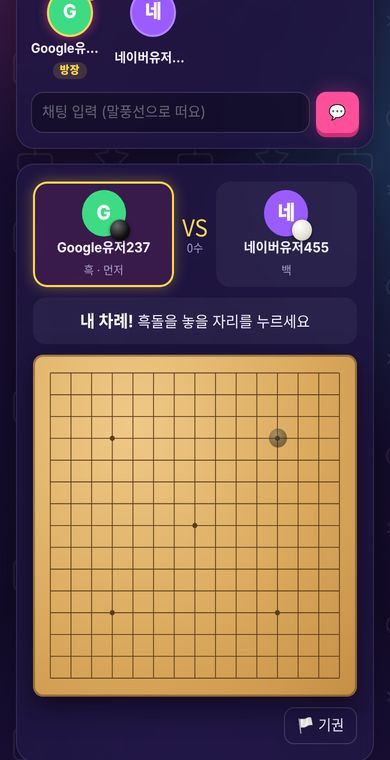
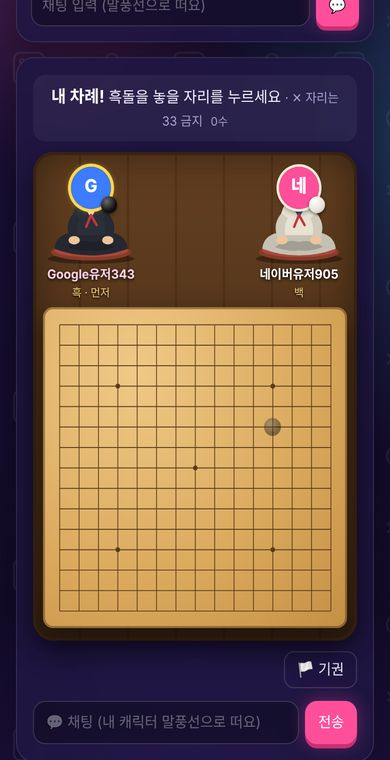
오목: 33 금지, 앉은 캐릭터·채팅, 잘못누르기 방지 삭제 / 장기: 상마 배치 고르기, 위아래 캐릭터·채팅
Claude-Session: https://claude.ai/code/session_018kcaK1YQGkv4UBC623yDa1

diff --git a/js/games/janggi.js b/js/games/janggi.js
@@ -2,7 +2,7 @@
 // 칸 번호: r*9 + c (r 0~9 위→아래, c 0~8). 한(漢·빨강)은 위, 초(楚·초록)는 아래에서 시작
 // 말: K 궁 · R 차 · C 포 · H 마 · E 상 · A 사 · P 졸/병, 앞에 진영 글자 c(초) / h(한)
 import { turnAlert, bigFlash } from './turn-alert.js';
-import { faceHtml } from './face.js';
+import { sitHtml, chatFormHtml, bindChat } from './sit.js';
 import { sfxToken } from '../sound.js';
 
 const W = 9, H = 10;
@@ -25,10 +25,15 @@ export const NAMES = { K: '궁', R: '차', C: '포', H: '마', E: '상', A: '사
 const HANJA = { c: { K: '楚', R: '車', C: '包', H: '馬', E: '象', A: '士', P: '卒' }, h: { K: '漢', R: '車', C: '包', H: '馬', E: '象', A: '士', P: '兵' } };
 const SCORE = { R: 13, C: 7, H: 5, E: 3, A: 3, P: 2, K: 0 };
 
-export function initialBoard() {
+// 상·마 배치: 내 쪽에서 봤을 때 왼쪽부터 (차 옆 두 칸, 사 옆 두 칸)
+export const FORMS = ['마상마상', '상마상마', '마상상마', '상마마상'];
+const FORM_NAME = { 마상마상: '왼상 차림', 상마상마: '오른상 차림', 마상상마: '안상 차림', 상마마상: '바깥상 차림' };
+const KIND = { 마: 'H', 상: 'E' };
+export function initialBoard(fc = '마상마상', fh = '마상마상') {
   const b = Array(W * H).fill('');
-  const back = ['R', 'H', 'E', 'A', '', 'A', 'E', 'H', 'R'];
-  back.forEach((p, c) => { if (p) { b[at(0, c)] = 'h' + p; b[at(9, c)] = 'c' + p; } });
+  ['R', '', '', 'A', '', 'A', '', '', 'R'].forEach((p, c) => { if (p) { b[at(0, c)] = 'h' + p; b[at(9, c)] = 'c' + p; } });
+  // 초는 아래에서 보니 왼쪽 = 0열, 한은 위에서 보니 왼쪽 = 8열
+  [1, 2, 6, 7].forEach((c, k) => { b[at(9, c)] = 'c' + KIND[fc[k]]; b[at(0, 8 - c)] = 'h' + KIND[fh[k]]; });
   b[at(1, 4)] = 'hK'; b[at(8, 4)] = 'cK';
   [1, 7].forEach((c) => { b[at(2, c)] = 'hC'; b[at(7, c)] = 'cC'; });
   [0, 2, 4, 6, 8].forEach((c) => { b[at(3, c)] = 'hP'; b[at(6, c)] = 'cP'; });
@@ -150,19 +155,27 @@ export default {
     '졸·병: 앞이나 옆으로 한 칸 (뒤로는 못 가요). 궁성 안에서는 선을 따라 대각선으로도 갈 수 있어요.',
     '상대 궁을 공격하면 "장군!" 내 궁이 공격받으면 반드시 피해야 해요. 피할 수 없으면 외통으로 패배!',
     '둘 곳이 마땅치 않으면 "한수쉼"으로 차례를 넘길 수 있어요 (장군일 때는 안 돼요).',
+    '시작하기 전에 각자 상·마 배치(마상마상 · 상마상마 · 마상상마 · 상마마상)를 골라요.',
     '200수가 지나면 남은 기물 점수로 승부해요 (차13·포7·마5·상3·사3·졸2, 한은 덤 1.5점).',
-    '가넷: 승리한 사람 +1',
+    '단판 승부! 이긴 사람 가넷 +1 (진 사람은 없어요)',
   ],
 
   setup(players) {
     const [a, b] = players.map((p) => p.uid).sort(() => Math.random() - 0.5);
-    return { cho: a, han: b, board: initialBoard(), turn: 'c', n: 0, last: null, check: false, passes: 0, phase: 'play' };
+    return { cho: a, han: b, board: initialBoard(), forms: { c: null, h: null }, turn: 'c', n: 0, last: null, check: false, passes: 0, phase: 'form' };
   },
 
   move(state, move, uid, players) {
-    if (state.phase !== 'play') throw new Error('__noop');
     const side = uid === state.cho ? 'c' : uid === state.han ? 'h' : '';
     if (!side) throw new Error('참가자가 아니에요');
+    if (state.phase === 'form') {
+      if (move?.type === 'resign') { const s = { ...state, phase: 'done', resign: uid }; return { state: s, result: result(s, players, side === 'c' ? state.han : state.cho, '(상대 기권)') }; }
+      if (move?.type !== 'form' || !FORMS.includes(move.f)) throw new Error('배치를 골라 주세요');
+      const forms = { ...state.forms, [side]: move.f };
+      if (forms.c && forms.h) return { state: { ...state, forms, board: initialBoard(forms.c, forms.h), phase: 'play' } };
+      return { state: { ...state, forms } };
+    }
+    if (state.phase !== 'play') throw new Error('__noop');
     const opp = side === 'c' ? 'h' : 'c';
     const oppUid = side === 'c' ? state.han : state.cho;
     if (move?.type === 'resign') { const s = { ...state, phase: 'done', resign: uid }; return { state: s, result: result(s, players, oppUid, '(상대 기권)') }; }
@@ -221,30 +234,38 @@ export default {
       return `<button class="${cls}" data-i="${i}">${p ? pieceHtml(p) : ''}</button>`;
     }).join('');
 
-    const seat = (u, side) => `<div class="om-p jg-seat ${side} ${u === me ? 'me' : ''} ${!finished && u === turnUid ? 'turn' : ''}">
-      <span class="om-face">${faceHtml(players[u] || { name: '?' })}<i class="jg-mark ${side}">${side === 'c' ? '楚' : '漢'}</i></span>
-      <b>${name(u)}</b><small>${side === 'c' ? '초 · 먼저' : '한'}</small></div>`;
+    const seat = (u, side, up) => sitHtml(players[u], {
+      uid: u, up, robe: side === 'c' ? '#1f6a45' : '#a3242f', trim: '#f2ead8', me: u === me, turn: !finished && state.phase === 'play' && u === turnUid,
+      badge: `<i class="jg-mark ${side}">${side === 'c' ? '楚' : '漢'}</i>`, label: (side === 'c' ? '초 · 먼저' : '한') + (state.forms?.[side] && state.phase !== 'form' ? ` · ${state.forms[side]}` : ''),
+    }).replace('class="sit ', `class="sit jg-sit ${up ? 'jg-top' : 'jg-bot'} `);
     const top = flip ? state.cho : state.han, bottom = flip ? state.han : state.cho;
 
     let banner;
     if (finished || state.phase === 'done') {
       const w = room?.result?.winners?.[0];
       banner = w ? `<b>${name(w)}</b>님 승리! ${state.mate ? '외통 장군 🎉' : state.resign ? '(상대 기권)' : state.score ? `(점수 ${state.score.c} : ${state.score.h})` : ''}` : '무승부!';
-    } else if (myTurn) banner = state.check ? '<b class="red">장군!</b> 궁을 지키세요' : ui.sel >= 0 ? `<b>${NAMES[b[ui.sel][1]]}</b> 선택 · 갈 곳을 누르세요` : '<b>내 차례!</b> 움직일 말을 누르세요';
+    } else if (state.phase === 'form') banner = mySide ? (state.forms[mySide] ? `내 배치 <b>${state.forms[mySide]}</b> · 상대가 고르는 중…` : '<b>상·마 배치</b>를 골라 주세요 (왼쪽부터)') : '배치를 고르는 중…';
+    else if (myTurn) banner = state.check ? '<b class="red">장군!</b> 궁을 지키세요' : ui.sel >= 0 ? `<b>${NAMES[b[ui.sel][1]]}</b> 선택 · 갈 곳을 누르세요` : '<b>내 차례!</b> 움직일 말을 누르세요';
     else banner = `<b>${name(turnUid)}</b>님 차례${state.check ? ' · <b class="red">장군!</b>' : ''}`;
 
     el.innerHTML = `
       <div class="om jg">
-        ${seat(top, flip ? 'c' : 'h')}
         <div class="nb-banner"><span>${banner} <small class="jg-n">${state.n}수</small></span></div>
-        <div class="jg-board">
-          <svg class="jg-grid" viewBox="0 0 ${W} ${H}" preserveAspectRatio="none">${L.join('')}</svg>
-          <div class="jg-cells">${cells}</div>
+        <div class="jg-room">
+          ${seat(top, flip ? 'c' : 'h', true)}
+          <div class="jg-board">
+            <svg class="jg-grid" viewBox="0 0 ${W} ${H}" preserveAspectRatio="none">${L.join('')}</svg>
+            <div class="jg-cells">${cells}</div>
+          </div>
+          ${seat(bottom, flip ? 'h' : 'c', false)}
         </div>
-        ${seat(bottom, flip ? 'h' : 'c')}
+        ${state.phase === 'form' && mySide && !finished ? `<div class="jg-forms">${FORMS.map((f) => `<button class="jg-form ${state.forms[mySide] === f ? 'on' : ''}" data-form="${f}">
+            <span class="jg-frow">${['R', ...f.split('').map((x) => KIND[x])].slice(0, 3).map((k) => pieceHtml(mySide + k)).join('')}<i></i>${f.split('').slice(2).map((x) => pieceHtml(mySide + KIND[x])).join('')}${pieceHtml(mySide + 'R')}</span>
+            <b>${f}</b><small>${FORM_NAME[f]}</small></button>`).join('')}</div>` : ''}
         ${mySide && !finished && state.phase === 'play' ? `<div class="jg-acts">
           <button class="btn sm" data-pass ${!myTurn || state.check ? 'disabled' : ''}>⏸ 한수쉼</button>
           <button class="btn ghost sm" data-resign>🏳 기권</button></div>` : ''}
+        ${mySide ? chatFormHtml() : ''}
       </div>`;
 
     el.querySelectorAll('.jg-c').forEach((btn) => (btn.onclick = () => {
@@ -253,6 +274,8 @@ export default {
       if (b[i] && b[i][0] === mySide) { ui.sel = ui.sel === i ? -1 : i; this.render(el, ctx); return; }
       if (ui.sel >= 0 && targets.includes(i)) { const from = ui.sel; ui.sel = -1; sendMove({ type: 'move', from, to: i }); }
     }));
+    el.querySelectorAll('[data-form]').forEach((x) => (x.onclick = () => sendMove({ type: 'form', f: x.dataset.form })));
+    bindChat(el);
     const $p = el.querySelector('[data-pass]');
     if ($p) $p.onclick = () => sendMove({ type: 'pass' });
     const $r = el.querySelector('[data-resign]');

diff --git a/js/games/omok.js b/js/games/omok.js
@@ -1,6 +1,6 @@
 // 미니게임: 오목 (2명) — 15×15 바둑판, 흑이 먼저, 가로·세로·대각선으로 5개 이상 이으면 승리
 import { turnAlert, bigFlash } from './turn-alert.js';
-import { faceHtml } from './face.js';
+import { sitHtml, chatFormHtml, bindChat } from './sit.js';
 import { sfxToken } from '../sound.js';
 
 const N = 15;
@@ -22,6 +22,31 @@ export function fiveLine(board, idx, color) {
   return null;
 }
 
+// 열린 3: 한 수 더 두면 양쪽이 빈 4(.XXXX.)가 되는 줄
+function openThreeDir(board, idx, color, dx, dy) {
+  const x0 = idx % N, y0 = Math.floor(idx / N);
+  const cell = (k) => { const x = x0 + dx * k, y = y0 + dy * k; if (x < 0 || y < 0 || x >= N || y >= N) return -1; const v = board[y * N + x]; return k === 0 || v === color ? 1 : v === '0' ? 0 : -1; };
+  const arr = {}; for (let k = -5; k <= 5; k++) arr[k] = cell(k);
+  // 이미 4개 이상 이어졌으면 3이 아니에요
+  let run = 1; for (const s of [1, -1]) for (let k = s; arr[k] === 1; k += s) run++;
+  if (run >= 4) return false;
+  for (let e = -4; e <= 4; e++) {
+    if (e === 0 || arr[e] !== 0) continue;
+    const a = { ...arr, [e]: 1 };
+    for (let st = -5; st <= 0; st++) {
+      if (st + 5 > 5) continue;
+      if (a[st] !== 0 || a[st + 5] !== 0) continue;
+      let ok = true; for (let k = st + 1; k <= st + 4; k++) if (a[k] !== 1) ok = false;
+      if (ok && st + 1 <= 0 && 0 <= st + 4 && st + 1 <= e && e <= st + 4) return true;
+    }
+  }
+  return false;
+}
+// 33: 한 수로 열린 3이 두 줄 이상 생기면 금지 (5목을 만드는 수는 괜찮아요)
+export function isDoubleThree(board, idx, color) {
+  return DIRS.filter(([dx, dy]) => openThreeDir(board, idx, String(color), dx, dy)).length >= 2;
+}
+
 function result(state, players, winner, why) {
   const order = [state.black, state.white];
   if (!winner) {
@@ -36,7 +61,6 @@ function result(state, players, winner, why) {
   };
 }
 
-const ui = { key: '', pick: -1 };
 const fx = { n: -1 };
 
 export default {
@@ -54,9 +78,9 @@ export default {
     '2명이 흑돌과 백돌을 나눠 가지고, 흑돌이 먼저 둬요. (흑·백은 무작위)',
     '번갈아 가며 15×15 판의 빈 교차점에 돌을 하나씩 놓아요.',
     '가로·세로·대각선 중 한 줄로 돌 5개 이상을 먼저 이으면 승리!',
-    '실수 방지: 칸을 한 번 누르면 미리보기, 같은 칸을 한 번 더 누르면 돌이 놓여요.',
+    '33 금지: 한 수로 열린 3(막히지 않은 3)이 두 줄 동시에 생기는 자리에는 둘 수 없어요. (흑·백 모두)',
     '판이 가득 차면 무승부. 언제든 기권할 수 있어요.',
-    '가넷: 승리한 사람 +1',
+    '단판 승부! 이긴 사람 가넷 +1 (진 사람은 없어요)',
   ],
 
   setup(players) {
@@ -79,6 +103,7 @@ export default {
     if (!Number.isInteger(i) || i < 0 || i >= N * N) throw new Error('판 밖이에요');
     if (state.board[i] !== '0') throw new Error('이미 돌이 있어요');
     const board = state.board.slice(0, i) + color + state.board.slice(i + 1);
+    if (!fiveLine(board, i, String(color)) && isDoubleThree(state.board, i, color)) throw new Error('33은 둘 수 없어요 (열린 3이 두 줄)');
     const s = { ...state, board, last: i, n: state.n + 1, turn: color === 1 ? 2 : 1 };
     const line = fiveLine(board, i, String(color));
     if (line) {
@@ -95,7 +120,6 @@ export default {
     const myColor = me === state.black ? 1 : me === state.white ? 2 : 0;
     const turnUid = state.turn === 1 ? state.black : state.white;
     const myTurn = !finished && state.phase === 'play' && myColor === state.turn;
-    if (ui.key !== `${room?.code}:${state.n}`) ui.key = `${room?.code}:${state.n}`, ui.pick = -1;
     if (room) turnAlert(room.code, `om:${room.startedAt}:${state.n}`, myTurn);
     if (fx.n !== state.n) { if (fx.n >= 0 && state.n > fx.n) sfxToken(); fx.n = state.n; }
 
@@ -104,41 +128,48 @@ export default {
     const stars = STARS.map(([x, y]) => `<circle cx="${x + 0.5}" cy="${y + 0.5}" r=".12"/>`).join('');
     const cells = Array.from(state.board, (v, i) => {
       const stone = v === '1' ? 'b' : v === '2' ? 'w' : '';
-      const cls = [stone && `st ${stone}`, i === state.last && 'last', win.has(i) && 'win', ui.pick === i && 'pick'].filter(Boolean).join(' ');
-      return `<button class="om-c ${cls}" data-i="${i}" ${stone || !myTurn ? 'tabindex="-1"' : ''}></button>`;
+      const ban = myTurn && !stone && isDoubleThree(state.board, i, myColor) && !fiveLine(state.board.slice(0, i) + myColor + state.board.slice(i + 1), i, String(myColor));
+      const cls = [stone && `st ${stone}`, i === state.last && 'last', win.has(i) && 'win', ban && 'ban'].filter(Boolean).join(' ');
+      return `<button class="om-c ${cls}" data-i="${i}" tabindex="-1"></button>`;
     }).join('');
-    const seat = (u, c) => `<div class="om-p ${u === me ? 'me' : ''} ${!finished && u === turnUid ? 'turn' : ''}">
-      <span class="om-face">${faceHtml(players[u] || { name: '?' })}<i class="om-stone ${c}"></i></span>
-      <b>${name(u)}</b><small>${c === 'b' ? '흑 · 먼저' : '백'}</small></div>`;
+    const seat = (u, c, side) => sitHtml(players[u], {
+      uid: u, robe: c === 'b' ? '#2b2f3a' : '#e8e2d2', trim: c === 'b' ? '#e8e2d2' : '#3d4f7a', me: u === me, turn: !finished && u === turnUid,
+      badge: `<i class="om-stone ${c}"></i>`, label: c === 'b' ? '흑 · 먼저' : '백',
+    }).replace('class="sit ', `class="sit om-sit ${side} `);
 
     let banner;
     if (finished || state.phase === 'done') {
       const w = state.win ? (state.board[state.win[0]] === '1' ? state.black : state.white) : state.resign ? (state.resign === state.black ? state.white : state.black) : null;
       banner = w ? `<b>${name(w)}</b>님 승리! ${state.resign ? '(상대 기권)' : '🎉 오목 완성'}` : '무승부!';
-    } else if (myTurn) banner = ui.pick >= 0 ? '<b>같은 자리를 한 번 더</b> 누르면 돌이 놓여요' : `<b>내 차례!</b> ${myColor === 1 ? '흑돌' : '백돌'}을 놓을 자리를 누르세요`;
+    } else if (myTurn) banner = `<b>내 차례!</b> ${myColor === 1 ? '흑돌' : '백돌'}을 놓을 자리를 누르세요 <small class="muted">· ✕ 자리는 33 금지</small>`;
     else if (myColor) banner = `<b>${name(turnUid)}</b>님이 생각하는 중…`;
     else banner = `${name(turnUid)}님 차례`;
 
     el.innerHTML = `
-      <div class="om">
-        <div class="om-top">${seat(state.black, 'b')}<span class="om-vs">VS<small>${state.n}수</small></span>${seat(state.white, 'w')}</div>
-        <div class="nb-banner"><span>${banner}</span></div>
-        <div class="om-board ${myTurn ? `can ${myColor === 1 ? 'mb' : 'mw'}` : ''}">
-          <svg class="om-grid" viewBox="0 0 ${N} ${N}" preserveAspectRatio="none">${lines}${stars}</svg>
-          <div class="om-cells">${cells}</div>
+      <div class="om om2">
+        <div class="nb-banner"><span>${banner} <small class="jg-n">${state.n}수</small></span></div>
+        <div class="om-room">
+          ${seat(state.black, 'b', 'l')}
+          <div class="om-board ${myTurn ? `can ${myColor === 1 ? 'mb' : 'mw'}` : ''}">
+            <svg class="om-grid" viewBox="0 0 ${N} ${N}" preserveAspectRatio="none">${lines}${stars}</svg>
+            <div class="om-cells">${cells}</div>
+          </div>
+          ${seat(state.white, 'w', 'r')}
         </div>
         ${myColor && !finished && state.phase === 'play' ? '<button class="btn ghost sm om-resign" data-resign>🏳 기권</button>' : ''}
+        ${myColor ? chatFormHtml() : ''}
       </div>`;
 
     el.querySelectorAll('.om-c').forEach((b) => (b.onclick = () => {
-      if (!myTurn) return;
+      if (!myTurn || b.classList.contains('ban')) return;
       const i = Number(b.dataset.i);
       if (state.board[i] !== '0') return;
-      if (ui.pick === i) { ui.pick = -1; sendMove({ type: 'place', i }); return; }
-      ui.pick = i; this.render(el, ctx);
+      b.classList.add('st', myColor === 1 ? 'b' : 'w');
+      sendMove({ type: 'place', i });
     }));
     const $r = el.querySelector('[data-resign]');
     if ($r) $r.onclick = () => { if (confirm('정말 기권할까요?')) sendMove({ type: 'resign' }); };
+    bindChat(el);
     if (state.win && !fx.shown) { fx.shown = true; bigFlash('<div class="spl-myturn">오목 완성! 🎉</div>', 1600); }
     if (!state.win) fx.shown = false;
   },

diff --git a/css/style.css b/css/style.css
@@ -3050,3 +3050,48 @@ html.rk-on .vdock .vbtn { height: 34px; font-size: 13px; padding: 0 10px; }
 .jg-seat { padding: 6px 12px; }
 .jg-seat b { align-self: end; } .jg-seat small { grid-column: 2; align-self: start; }
 .jg-c.sel .jg-p { box-shadow: none; } .jg-c.sel::after { content: ''; position: absolute; inset: 4%; border-radius: 50%; box-shadow: 0 0 0 3px #ffd84d, 0 0 14px #ffd84d; pointer-events: none; }
+
+/* 오목·장기: 기원 · 앉은 캐릭터 */
+.sit { position: relative; display: grid; justify-items: center; gap: 1px; width: 96px; }
+.sit-fig { position: relative; width: 96px; height: 92px; }
+.sit-fig svg { position: absolute; left: 0; bottom: 0; width: 100%; height: auto; }
+.sit-face { position: absolute; left: 50%; top: 0; width: 40px; height: 40px; transform: translateX(-50%); border-radius: 50%; box-shadow: 0 0 0 2.5px #f2ead8, 0 3px 6px rgba(0, 0, 0, .5); background: #333; }
+.sit-face > .pf { width: 100%; height: 100%; border-radius: 50%; overflow: hidden; display: grid; place-items: center; object-fit: cover; font-weight: 800; font-size: 17px; color: #fff; }
+.sit-face > .pf.char svg { width: 100%; height: 100%; }
+.sit-face .om-stone { width: 16px; height: 16px; right: -6px; bottom: -4px; }
+.sit-face .jg-mark { right: -10px; bottom: -6px; width: 19px; height: 19px; font-size: 11px; }
+.sit.turn .sit-face { box-shadow: 0 0 0 3px #ffd84d, 0 0 16px #ffd84d; animation: skxTurn 1s infinite alternate; }
+.sit.me .sit-name { color: #ffd1e6; }
+.sit-name { max-width: 96px; font-size: 12px; color: #fff; text-shadow: 0 1px 3px #000; overflow: hidden; text-overflow: ellipsis; white-space: nowrap; }
+.sit-label { font-size: 10.5px; color: #f2d27a; text-shadow: 0 1px 2px #000; white-space: nowrap; }
+.sit .seat-bubble { bottom: calc(100% - 4px); }
+.sit.up .seat-bubble { bottom: auto; top: calc(100% + 2px); }
+.sit.up .seat-bubble .bub::after { bottom: auto; top: -6px; border-top: 0; border-bottom: 6px solid #fff; }
+.sit-chat { margin-top: 2px; }
+/* 오목 방 */
+.om2 .om-room { position: relative; display: grid; grid-template-columns: 1fr 1fr; grid-template-areas: 'l r' 'b b'; gap: 6px 10px; align-items: end; padding: 14px 10px 12px; border-radius: 20px;
+  background: linear-gradient(180deg, rgba(20, 12, 6, .1), rgba(20, 12, 6, .45)), repeating-linear-gradient(90deg, #6b4423 0 46px, #5a381c 46px 48px), #5a381c;
+  box-shadow: inset 0 0 0 3px #3a2210, inset 0 0 40px rgba(0, 0, 0, .5), 0 10px 26px rgba(0, 0, 0, .45); }
+.om2 .om-sit.l { grid-area: l; justify-self: start; } .om2 .om-sit.r { grid-area: r; justify-self: end; }
+.om2 .om-board { grid-area: b; }
+.om-c.ban::before { content: '✕'; position: absolute; inset: 0; display: grid; place-items: center; color: rgba(200, 30, 50, .55); font-size: 11px; font-weight: 900; }
+.om-board.can .om-c.ban { cursor: not-allowed; }
+@media (orientation: landscape) and (min-width: 700px) {
+  .om2 .om-room { grid-template-columns: auto 1fr auto; grid-template-areas: 'l b r'; align-items: center; }
+  .om2 .om-board { width: min(100%, 560px, 72vh); }
+}
+/* 장기 방 */
+.jg .jg-room { display: grid; justify-items: center; gap: 6px; padding: 10px 8px; border-radius: 20px;
+  background: linear-gradient(180deg, rgba(20, 12, 6, .1), rgba(20, 12, 6, .45)), repeating-linear-gradient(0deg, #7a5530 0 40px, #66451f 40px 42px), #66451f;
+  box-shadow: inset 0 0 0 3px #3a2210, inset 0 0 40px rgba(0, 0, 0, .5), 0 10px 26px rgba(0, 0, 0, .45); }
+.jg-sit.jg-top, .jg-sit.jg-bot { width: 100%; grid-template-columns: auto auto; justify-content: center; column-gap: 8px; align-items: center; }
+.jg-sit .sit-fig { grid-row: span 2; width: 78px; height: 76px; } .jg-sit .sit-face { width: 34px; height: 34px; }
+.jg-sit .sit-name, .jg-sit .sit-label { justify-self: start; }
+.jg-sit .sit-name { align-self: end; } .jg-sit .sit-label { align-self: start; }
+.jg-sit .seat-bubble { left: calc(50% - 40px); }
+.jg-forms { display: grid; grid-template-columns: 1fr 1fr; gap: 8px; }
+.jg-form { appearance: none; border: 0; cursor: pointer; display: grid; justify-items: center; gap: 2px; padding: 10px 6px; border-radius: 14px; background: rgba(255, 255, 255, .06); color: #fff; font: inherit; }
+.jg-form.on { background: rgba(255, 216, 77, .14); box-shadow: inset 0 0 0 2px #ffd84d; }
+.jg-form b { font-size: 15px; } .jg-form small { font-size: 11px; color: var(--muted); }
+.jg-frow { display: flex; align-items: center; gap: 2px; }
+.jg-frow .jg-p { width: 26px; } .jg-frow .jg-p b { font-size: 13px; } .jg-frow i { width: 10px; }

diff --git a/js/games/sit.js b/js/games/sit.js
@@ -1,0 +1,51 @@
+// 양반다리로 앉은 캐릭터 (얼굴 = 프로필) + 자리 말풍선 채팅 — 오목·장기에서 같이 써요
+import { faceHtml } from './face.js';
+
+const esc = (s) => String(s ?? '').replace(/[&<>"']/g, (c) => ({ '&': '&amp;', '<': '&lt;', '>': '&gt;', '"': '&quot;', "'": '&#39;' }[c]));
+
+// robe: 두루마기 색, trim: 깃·고름 색
+export function sitHtml(player, { robe = '#3d4f7a', trim = '#f2ead8', uid = '', label = '', badge = '', turn = false, me = false, up = false } = {}) {
+  return `<div class="sit ${turn ? 'turn' : ''} ${me ? 'me' : ''} ${up ? 'up' : ''}">
+    <span class="seat-bubble" data-bub="${esc(uid)}"></span>
+    <div class="sit-fig">
+      <svg viewBox="0 0 120 110" aria-hidden="true">
+        <ellipse cx="60" cy="104" rx="54" ry="6" fill="rgba(0,0,0,.35)"/>
+        <ellipse cx="60" cy="96" rx="50" ry="10" fill="#8a3a2a"/><ellipse cx="60" cy="94" rx="46" ry="8" fill="#a8483a"/>
+        <path d="M14 92 Q16 74 40 72 L80 72 Q104 74 106 92 Q84 100 60 100 Q36 100 14 92 Z" fill="${robe}" filter="brightness(.85)"/>
+        <path d="M30 90 Q44 80 60 84 Q76 80 90 90 Q74 96 60 94 Q46 96 30 90 Z" fill="${robe}" filter="brightness(.7)"/>
+        <path d="M36 76 Q34 44 48 34 L72 34 Q86 44 84 76 Z" fill="${robe}"/>
+        <path d="M50 34 L60 52 L70 34" fill="none" stroke="${trim}" stroke-width="4"/>
+        <path d="M60 52 l-6 14 M60 52 l7 12" stroke="#c8343a" stroke-width="3" stroke-linecap="round"/>
+        <path d="M38 50 Q26 64 34 80 L44 80 Q40 66 46 56 Z" fill="${robe}" filter="brightness(.9)"/>
+        <path d="M82 50 Q94 64 86 80 L76 80 Q80 66 74 56 Z" fill="${robe}" filter="brightness(.9)"/>
+        <ellipse cx="39" cy="82" rx="7" ry="5" fill="#f0c49a"/><ellipse cx="81" cy="82" rx="7" ry="5" fill="#f0c49a"/>
+      </svg>
+      <span class="sit-face">${faceHtml(player || { name: '?' })}${badge}</span>
+    </div>
+    <b class="sit-name">${esc(player?.name || '나간 사람')}</b>
+    ${label ? `<small class="sit-label">${label}</small>` : ''}
+  </div>`;
+}
+
+// 맨 아래 채팅창 → 방 채팅으로 보내면 자리 캐릭터 위 말풍선으로 떠요
+const chat = { draft: '', focus: false };
+export const chatFormHtml = () => '<form class="sp-chat sit-chat"><input maxlength="60" placeholder="💬 채팅 (내 캐릭터 말풍선으로 떠요)" autocomplete="off" enterkeyhint="send"><button class="btn sm primary">전송</button></form>';
+export function bindChat(el) {
+  const $cf = el.querySelector('.sit-chat');
+  if (!$cf) return;
+  const $in = $cf.querySelector('input');
+  $in.value = chat.draft;
+  $in.oninput = () => (chat.draft = $in.value);
+  $in.onfocus = () => (chat.focus = true);
+  $in.onblur = () => setTimeout(() => { if ($in.isConnected) chat.focus = false; }, 0);
+  if (chat.focus) $in.focus({ preventScroll: true });
+  $cf.onsubmit = (e) => {
+    e.preventDefault();
+    const text = $in.value.trim();
+    const $g = document.querySelector('.gchat');
+    if (!text || !$g) return;
+    $g.querySelector('input').value = text;
+    $g.requestSubmit();
+    chat.draft = ''; $in.value = '';
+  };
+}

diff --git a/js/config.js b/js/config.js
@@ -1,6 +1,6 @@
 // 앱 이름
 export const APP_NAME = 'O게임';
-export const APP_VERSION = 'v10.41';
+export const APP_VERSION = 'v10.42';
 
 // Firebase 설정 — Firebase 콘솔 > 프로젝트 설정 > 내 앱 에서 복사한 값
 // apiKey를 비우면 "테스트 모드"로 동작합니다
